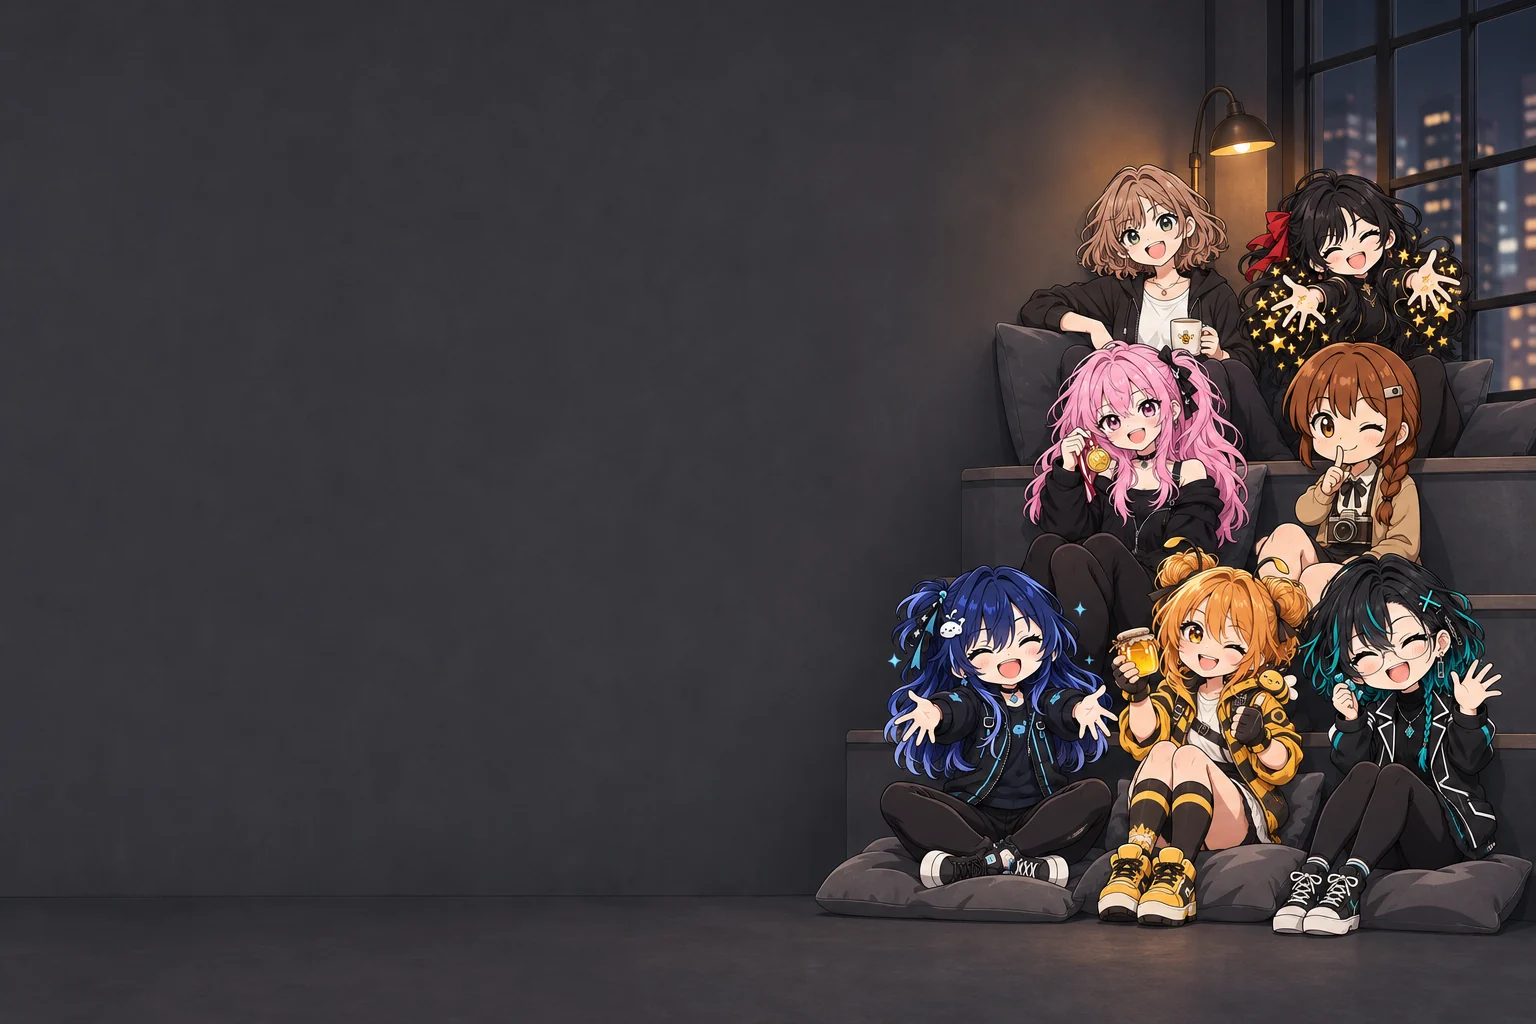
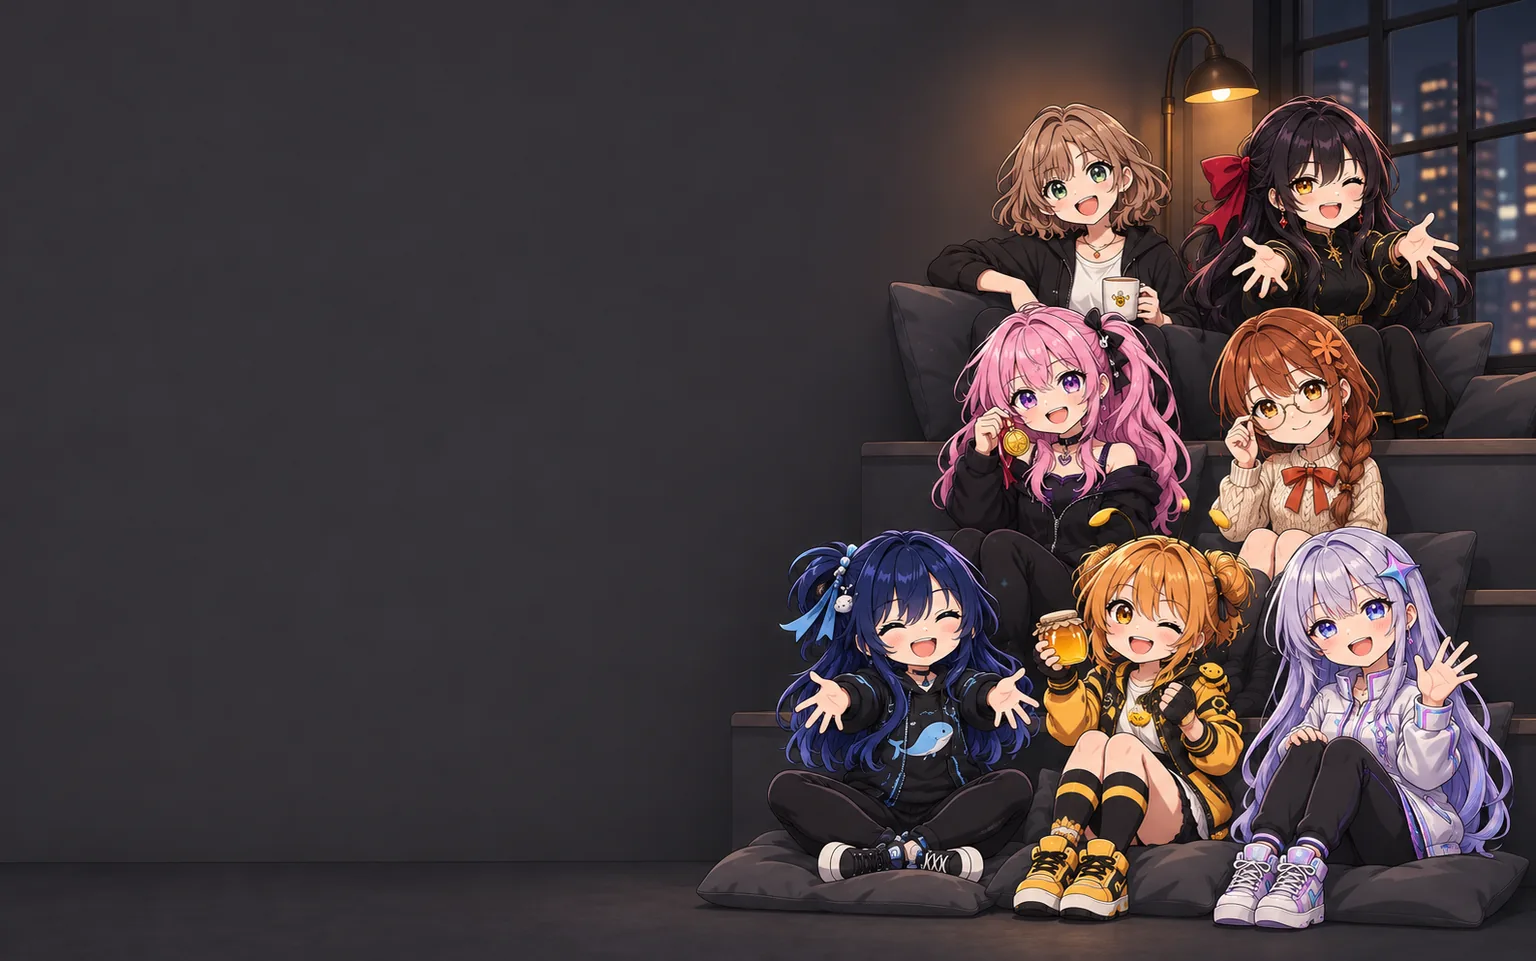
release 0.10.370: HIKARI answers again (strip omp identity line from agy append), default wallpaper shows the current cast
- Google rejected every antigravity-cli turn with 429 RESOURCE_EXHAUSTED while the ACP systemPrompt append started with omp's identity line; a core patch drops only that line in host.ts systemMeta (isolated core CLI answered in 9.65 s, 0 x 429; 78/78 core patch tests)
- graphite default wallpaper redrawn with the seven current characters
- work record, HANDOFF row

Changed region(s): [[0.4375, 0.0, 1.0, 0.999]]

diff --git a/Tools/CUELO_Setup/files/native-runtime-patch.js b/Tools/CUELO_Setup/files/native-runtime-patch.js
@@ -9,7 +9,7 @@ const MEMORY_RE = /(const phase1Model = await resolveMemoryModel\(\{[^}]*?fallba
 const MEMORY_DONE = /const phase1Model = await resolveMemoryModel\(\{[^}]*?fallbackRole: "smol"/;
 const EXPECTED = {
     name: 'cuelo',
-    version: '0.10.369',
+    version: '0.10.370',
     distribution: 'cuelo',
     coreVersion: '19.2.1',
 };

diff --git a/CHANGELOG.md b/CHANGELOG.md
@@ -1,5 +1,10 @@
 # 변경 기록
 
+## [0.10.370] - 2026-11-26
+
+- HIKARI(히카리)가 첫 메시지에도 답하지 않고 몇 분 뒤 실패하던 문제를 고쳤습니다. 터미널의 Antigravity CLI는 정상인데 CUELO에서만 매번 사용량 초과 오류가 나던 경우로, 이제 몇 초 안에 답합니다.
+- 그래파이트 화면의 기본 배경 그림이 예전 캐릭터 구성으로 남아 있던 것을 현재 일곱 명(RIN, MIO, YUKI, HIKARI, SHIORI, ISANA, MITSU)이 나오는 새 그림으로 바꿨습니다.
+
 ## [0.10.369] - 2026-11-26
 
 - 새 캐릭터 SHIORI(시오리)를 추가했습니다. `시오리 불러와`로 호출하거나 `시오리로 교체해`로 메인 세션을 바꿀 수 있으며, 얼굴은 표시되지만 완료 음성과 스티커는 아직 없습니다.
